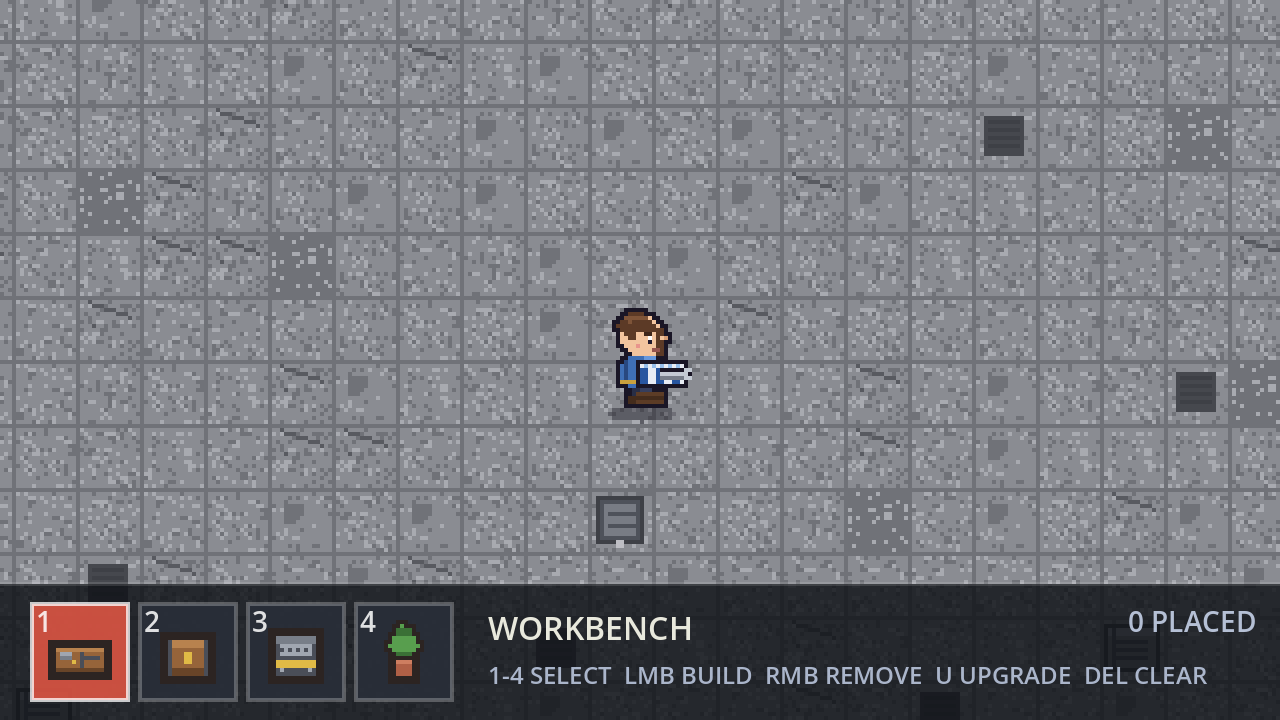
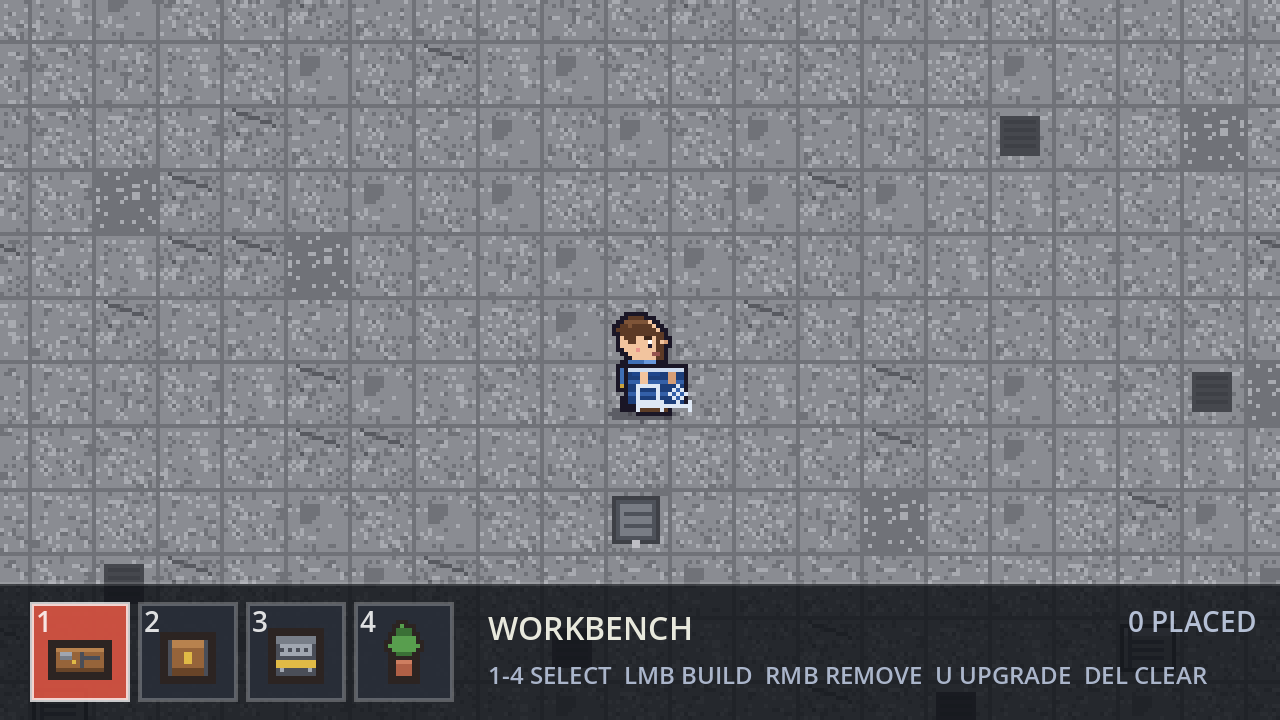
feat: 建造模式改成双手捧报纸大小的蓝图（去掉扳手）
- 蓝图 16x11，蓝底 + 白色工程图线（边框/网格/平面图/俯视图/尺寸线）
- 双手捧着：先把蓝图贴在手中间，再把手的像素画到纸上面
- 去掉扳手

diff --git a/tools/make_build_sheet.py b/tools/make_build_sheet.py
@@ -21,11 +21,11 @@ SOURCE = ROOT / "assets" / "character.aseprite"
 UNARMED = ROOT / "assets" / "character_sheet_unarmed.png"
 OUTPUT = ROOT / "assets" / "character_sheet_build.png"
 
-PAPER = (232, 236, 244, 255)    # 白条纹
-PAPER_D = (40, 86, 160, 255)    # 蓝条纹
-PAPER_L = (150, 190, 235, 255)  # 高光
-WRENCH = (196, 202, 212, 255)
-WRENCH_D = (120, 126, 138, 255)
+PAPER = (206, 220, 240, 255)      # 抬头浅底
+PAPER_D = (28, 62, 122, 255)      # 蓝图纸底
+PAPER_L = (222, 232, 245, 255)    # 白色图线
+PA_GRID = (52, 96, 168, 255)      # 淡蓝网格
+PA_HEAD = (30, 70, 140, 255)      # 标题文字
 OUTLINE = (26, 22, 38, 255)
 
 
@@ -55,56 +55,60 @@ def put(px, x, y, color):
         px[int(x), int(y)] = color
 
 
-# 蓝图尺寸（横着的纸）
-PAPER_W, PAPER_H = 13, 7
+# 蓝图尺寸：像一张报纸（比人物躯干还宽一点）
+PAPER_W, PAPER_H = 16, 11
 
 
 def draw_blueprint(px, cx, cy, direction):
-    """横着的蓝白相间图纸：整张纸用蓝/白竖条纹，深色描边。"""
+    """一张摊开的蓝图：蓝纸 + 白色工程图线（边框、网格、矩形、圆、尺寸线）。"""
     cx, cy = int(round(cx)), int(round(cy))
     x0 = cx - PAPER_W // 2
     y0 = cy - PAPER_H // 2
 
+    # 纸边（深色描边）
     for x in range(PAPER_W):
         for y in range(PAPER_H):
-            edge = x in (0, PAPER_W - 1) or y in (0, PAPER_H - 1)
-            if edge:
+            if x in (0, PAPER_W - 1) or y in (0, PAPER_H - 1):
                 put(px, x0 + x, y0 + y, OUTLINE)
-            else:
-                # 蓝白相间：每 2 列换一次色
-                stripe = ((x - 1) // 2) % 2
-                put(px, x0 + x, y0 + y, PAPER_D if stripe == 0 else PAPER)
-    # 顶部一条高光，像纸卷起
+
+    # 蓝底
     for x in range(1, PAPER_W - 1):
-        put(px, x0 + x, y0 + 1, PAPER_L if x % 2 == 0 else PAPER)
+        for y in range(1, PAPER_H - 1):
+            put(px, x0 + x, y0 + y, PAPER_D)
 
+    # 抬头（浅蓝横条 + 标题线）
+    for x in range(1, PAPER_W - 1):
+        put(px, x0 + x, y0 + 1, PAPER)
+    for x in range(2, 9):
+        put(px, x0 + x, y0 + 2, PA_HEAD)
 
-def draw_wrench(px, cx, cy, direction):
-    """扳手：一根 2px 厚的杆 + 开口的 C 形头，指向外侧。"""
-    cx, cy = int(round(cx)), int(round(cy))
-    # 沿朝向的单位向量
-    dirs = {0: (0, 1), 1: (0, -1), 2: (-1, 0), 3: (1, 0)}
-    dx, dy = dirs[direction]
-    perp = (dy, dx) if dx == 0 else (-dy, dx)   # 垂直方向（用来画杆的厚度）
+    # 网格（淡蓝）
+    for y in range(4, PAPER_H - 2, 3):
+        for x in range(1, PAPER_W - 1):
+            put(px, x0 + x, y0 + y, PA_GRID)
+    for x in range(3, PAPER_W - 1, 5):
+        for y in range(4, PAPER_H - 2):
+            put(px, x0 + x, y0 + y, PA_GRID)
 
-    # 杆：从手往外 5 格，2px 厚
-    for i in range(6):
-        bx = cx + dx * i
-        by = cy + dy * i
-        put(px, bx, by, WRENCH)
-        put(px, bx + perp[0], by + perp[1], WRENCH_D)
+    # 图形 1：矩形平面图
+    for x in range(3, 9):
+        put(px, x0 + x, y0 + 5, PAPER_L)
+        put(px, x0 + x, y0 + 9, PAPER_L)
+    for y in range(5, 10):
+        put(px, x0 + 3, y0 + y, PAPER_L)
+        put(px, x0 + 8, y0 + y, PAPER_L)
 
-    # 头：在最外侧，C 形开口
-    hx = cx + dx * 6
-    hy = cy + dy * 6
-    for s in (-1, 0, 1):
-        put(px, hx + perp[0] * s, hy + perp[1] * s, WRENCH)
-    put(px, hx + dx * 1 + perp[0] * -1, hy + dy * 1 + perp[1] * -1, WRENCH)
-    put(px, hx + dx * 1 + perp[0] * 1, hy + dy * 1 + perp[1] * 1, WRENCH)
-    put(px, hx + dx, hy + dy, OUTLINE)
-    # 描边：杆两侧
-    for i in range(6):
-        put(px, cx + dx * i - perp[0], cy + dy * i - perp[1], OUTLINE)
+    # 图形 2：一个圆（俯视图）
+    for dx, dy in ((0, -2), (0, 2), (-2, 0), (2, 0), (-1, -1), (1, -1), (-1, 1), (1, 1)):
+        put(px, x0 + 13 + dx, y0 + 7 + dy, PAPER_L)
+    put(px, x0 + 13, y0 + 7, PAPER_L)
+
+    # 尺寸线 + 刻度
+    for x in range(3, 17):
+        put(px, x0 + x, y0 + 10, PAPER_L)
+    for x in (3, 9, 16):
+        put(px, x0 + x, y0 + 9, PAPER_L)
+        put(px, x0 + x, y0 + 11, PAPER_L)
 
 
 def dump_gun_frames(tmp: Path) -> None:
@@ -143,11 +147,16 @@ def main() -> None:
             else:
                 ox = 1
 
-            # 蓝图放两手中间，扳手在最外侧那只手
+            # 蓝图在两手中间稍微往上一点，然后把手画在纸上面，像双手捧着
             mid_x = sum(h[0] for h in hands) / len(hands)
             mid_y = sum(h[1] for h in hands) / len(hands)
-            draw_blueprint(px, mid_x + ox, mid_y + oy, direction)
-            draw_wrench(px, hands[-1][0] + ox, hands[-1][1] + oy, direction)
+            draw_blueprint(px, mid_x, mid_y + 2, direction)
+
+            gun_px = gun.load()
+            for yy in range(32):
+                for xx in range(32):
+                    if is_skin(gun_px[xx, yy]):
+                        px[xx, yy] = gun_px[xx, yy]
 
             out.paste(frame, (i * 32, 0))
 

diff --git a/README.md b/README.md
@@ -576,8 +576,9 @@ after 3.5s-> 0 只（确认不再刷）
   身体 + 手、没有枪），就是普通走路动画。
 - **基地 HUD 很干净**：没有血条、没有弹药（基地里不打架），只保留底部建造栏和边缘的
   `E - GO DOWNTOWN` 提示。
-- **建造模式换姿势**：按 Tab 后角色换成**双手捧着一张蓝白相间的蓝图、另一只手拿扳手**的那套帧
-  （`character_sheet_build.png`，四个方向的 idle + 走路都有），退出建造模式再换回空手。
+- **建造模式换姿势**：按 Tab 后角色换成**双手捧着一张报纸大小的蓝图**（蓝纸 + 白色工程图线：
+  边框、网格、平面图矩形、俯视图圆、尺寸线），`character_sheet_build.png` 四个方向的 idle + 走路都有；
+  退出建造模式再换回空手。
 - **按 Tab 进 / 出建造模式**：不按 Tab 时就是纯走路，底部只有一行 `TAB - BUILD` 提示；
   按 Tab 才弹出底部家具栏，此时才能选家具、放置、拆除、升级。
 - 家具数据是 `BaseFurniture` 资源（`assets/base/*.tres`）：名字、贴图、`max_level`。
